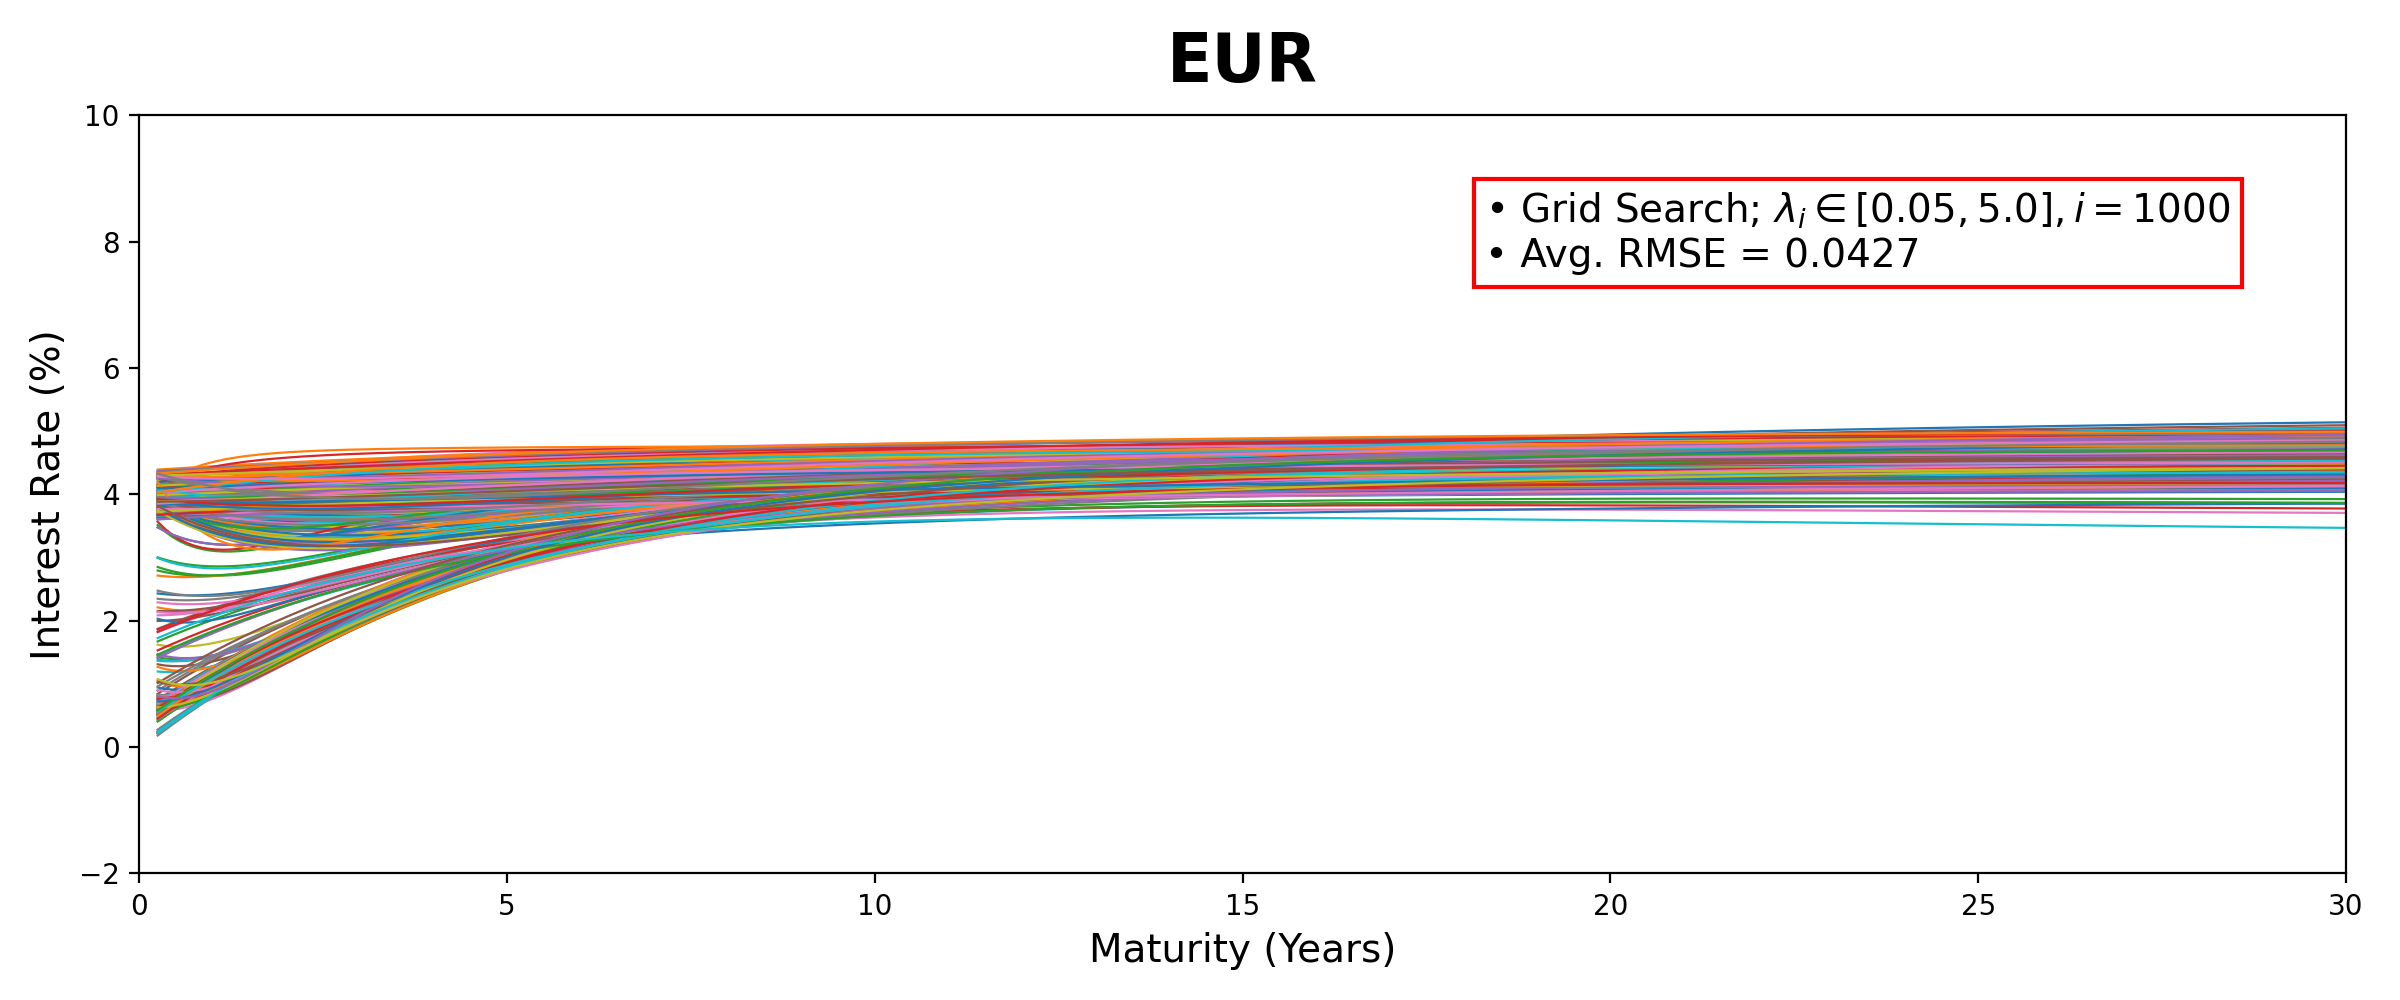
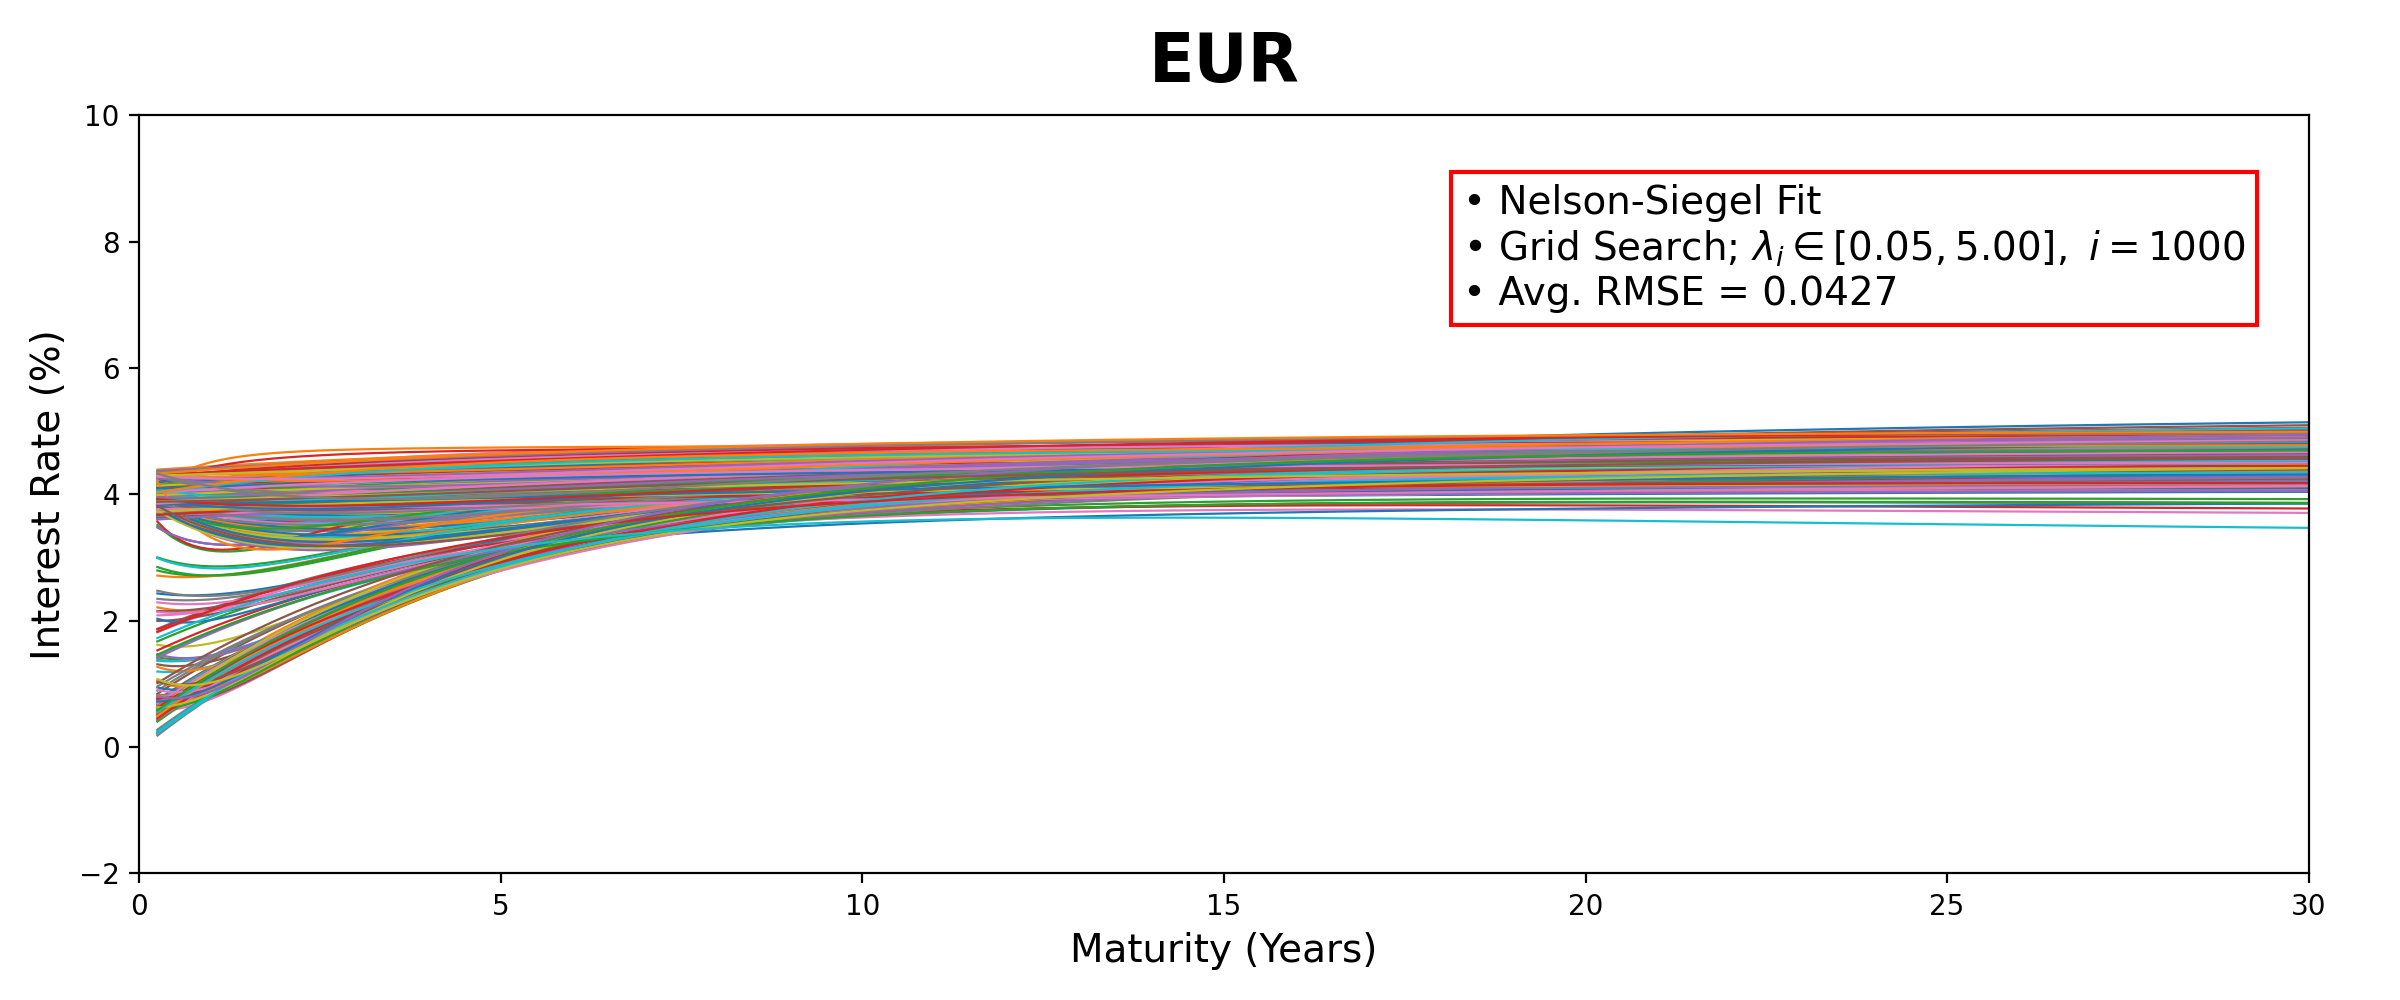
edits

diff --git a/Chapter 2/parametric_models/yplot_ns_grid_search.py b/Chapter 2/parametric_models/yplot_ns_grid_search.py
@@ -21,7 +21,7 @@ def parse_maturities(labels):
     return np.array(out, dtype=float)
 
 
-def yield_curves_plot(maturities_years, fitted_curves, rmse_values, title, save_path):
+def yield_curves_plot(maturities_years, fitted_curves, rmse_values, title, save_path, lambd_lo, lambd_upp, n_grid):
     """Yield curve plot in accordance to tenor structure.
     """
     x_min = float(np.nanmin(maturities_years))
@@ -42,12 +42,12 @@ def yield_curves_plot(maturities_years, fitted_curves, rmse_values, title, save_
     info = (
         r"• Nelson-Siegel Fit"
         "\n"
-        r"• Grid Search; $\lambda_{i} \in [0.05,5.0], i=1000$"
+        f"• Grid Search; $\lambda_i \in [{lambd_lo:.2f},{lambd_upp:.2f}],\ i={n_grid}$"
         "\n"
         f"• Avg. RMSE = {avg_rmse:.4f}"
     )
     ax.text(
-        0.61, 0.80, info,
+        0.61, 0.75, info,
         transform=ax.transAxes,
         fontsize=14,
         bbox=dict(boxstyle="square", facecolor="white", edgecolor="red", linewidth=1.5)
@@ -59,30 +59,25 @@ def yield_curves_plot(maturities_years, fitted_curves, rmse_values, title, save_
     print(f"Saved figure to {save_path}")
     
 
-def rmse_over_lambdas(t: np.ndarray, y: np.ndarray, lambdas: np.ndarray) -> np.ndarray:
-    """RMSE(λ) for a single curve (t, y), refitting betas via OLS at each λ."""
-    out = np.empty(lambdas.size, dtype=float)
-    for j, lambd in enumerate(lambdas):
+def rmse_lambd_grid(t: np.ndarray, y: np.ndarray, lambds: np.ndarray) -> np.ndarray:
+    """RMSE(λ-grid) for a single curve (t, y), refitting betas via OLS at each λ."""
+    out = np.empty(lambds.size, dtype=float)
+    for j, lambd in enumerate(lambds):
         curve, _ = betas_ns_ols(lambd, t, y)
         yhat = curve(t)
         out[j] = np.sqrt(np.mean((yhat - y) ** 2))
     return out
 
 
-def plot_lambda_error_heatmap(lambdas: np.ndarray, err_mat: np.ndarray, title: str, save_path: str):
-    """
-    2D heatmap:
-      x-axis: lambdas (size n_grid)
-      y-axis: dataset row (size n_rows)
-      color: RMSE
-    err_mat must be shape (n_rows, n_grid).
+def plot_rmse_heatmap(lambds: np.ndarray, err_mat: np.ndarray, title: str, save_path: str):
+    """Heatmap plot for RMSE(λ-grid) across entire yield dataset.
     """
     fig, ax = plt.subplots(figsize=(11, 6))
     im = ax.imshow(
         err_mat,
         aspect="auto",
         origin="lower",
-        extent=[lambdas[0], lambdas[-1], 1, err_mat.shape[0]]
+        extent=[lambds[0], lambds[-1], 1, err_mat.shape[0]]
     )
     ax.set_xlabel("λ (Decay)")
     ax.set_ylabel("Yield Curve Index")
@@ -96,15 +91,16 @@ def plot_lambda_error_heatmap(lambdas: np.ndarray, err_mat: np.ndarray, title: s
     print(f"Saved heatmap to {save_path}")
 
 
-def process_yield_csv(csv_path: str, title: str, out_dir: str, lambd0: float = 1.0):
-    """Load a single CSV, calibrate per row, save params & plot."""
+def process_yield_csv(csv_path: str, title: str, lambd_lo: float, lambd_upp: float, n_grid: int):
+    """Load a single yield CSV dataset, calibrate per row, save parameters & plot.
+    """
     df = pd.read_csv(csv_path, header=0)
     maturities_years = parse_maturities(df.columns.tolist())
 
     results = []
     fitted_curves = []
-    lambdas_for_heatmap = np.linspace(0.05, 5.0, 200)
-    rmse_lambda_rows = []
+    heatmap_lambds = np.linspace(lambd_lo, lambd_upp, 200)
+    rmse_lambda_grid = []
 
     for i, row in df.iterrows():
         y = pd.to_numeric(row, errors="coerce").to_numpy(dtype=float)
@@ -112,7 +108,7 @@ def process_yield_csv(csv_path: str, title: str, out_dir: str, lambd0: float = 1
         t = maturities_years[mask]
         y_valid = y[mask]
 
-        curve, _, _ = calibrate_ns_grid(t, y)
+        curve, _, _ = calibrate_ns_grid(t, y_valid, lambd_lo, lambd_upp, n_grid)
 
         fitted_curves.append(curve)
         yhat = curve(t)
@@ -127,7 +123,7 @@ def process_yield_csv(csv_path: str, title: str, out_dir: str, lambd0: float = 1
             "rmse": rmse
         })
         
-        rmse_lambda_rows.append(rmse_over_lambdas(t, y_valid, lambdas_for_heatmap))
+        rmse_lambda_grid.append(rmse_lambd_grid(t, y_valid, heatmap_lambds))
 
     out = pd.DataFrame(results)
     params_path = f"{title}_ns_grid_search_betas.csv"
@@ -135,11 +131,12 @@ def process_yield_csv(csv_path: str, title: str, out_dir: str, lambd0: float = 1
     print(f"Saved {len(out)} rows to {params_path}")
 
     fig_path = f"{title}_ns_grid_search_curve.png"
-    yield_curves_plot(maturities_years, fitted_curves, out["rmse"], title=title, save_path=str(fig_path))
+    yield_curves_plot(maturities_years, fitted_curves, out["rmse"], title=title, save_path=fig_path, 
+        lambd_lo=lambd_lo, lambd_upp=lambd_upp, n_grid=n_grid)
     
-    err_heatmap = np.vstack(rmse_lambda_rows)  
+    err_heatmap = np.vstack(rmse_lambda_grid)  
     heatmap_path = f"{title}_ns_lambda_rmse_heatmap.png"
-    plot_lambda_error_heatmap(lambdas_for_heatmap, err_heatmap, title=title, save_path=heatmap_path)
+    plot_rmse_heatmap(heatmap_lambds, err_heatmap, title=title, save_path=heatmap_path)
 
 
 def main():
@@ -153,9 +150,8 @@ def main():
         {"csv_path": r"Chapter 2\Data\ECB_Yield_Final.csv", "title": "EUR"}
     ]
 
-    out_dir = "ns_outputs"
     for item in lists:
-        process_yield_csv(item["csv_path"], title=item["title"], out_dir=out_dir, lambd0=1.0)
+        process_yield_csv(item["csv_path"], title=item["title"], lambd_lo = 0.05, lambd_upp=5.0, n_grid=1000) # λ-grid inputs
 
 if __name__ == "__main__":
     main()

diff --git a/Chapter 2/parametric_models/yplot_ns_pointwise.py b/Chapter 2/parametric_models/yplot_ns_pointwise.py
@@ -58,8 +58,9 @@ def yield_curves_plot(maturities_years, fitted_curves, rmse_values, title, save_
     print(f"Saved figure to {save_path}")
 
 
-def process_yield_csv(csv_path: str, title: str, out_dir: str, lambd0: float):
-    """Load a single CSV, calibrate per row, save params & plot."""
+def process_yield_csv(csv_path: str, title: str, lambd0: float):
+    """Load a single yield CSV dataset, calibrate per row, save parameters & plot.
+    """
     df = pd.read_csv(csv_path, header=0)
     maturities_years = parse_maturities(df.columns.tolist())
 
@@ -107,10 +108,9 @@ def main():
         {"csv_path": r"Chapter 2\Data\SGS_Yield_Final.csv", "title": "SGD"},
         {"csv_path": r"Chapter 2\Data\ECB_Yield_Final.csv", "title": "EUR"}
     ]
-
-    out_dir = "ns_outputs"  
+ 
     for list in lists:
-        process_yield_csv(list["csv_path"], title=list["title"], out_dir=out_dir, lambd0=1.0) # initial value of lambd
+        process_yield_csv(list["csv_path"], title=list["title"], lambd0=1.0) # initial value of lambd
 
 if __name__ == "__main__":
     main()
